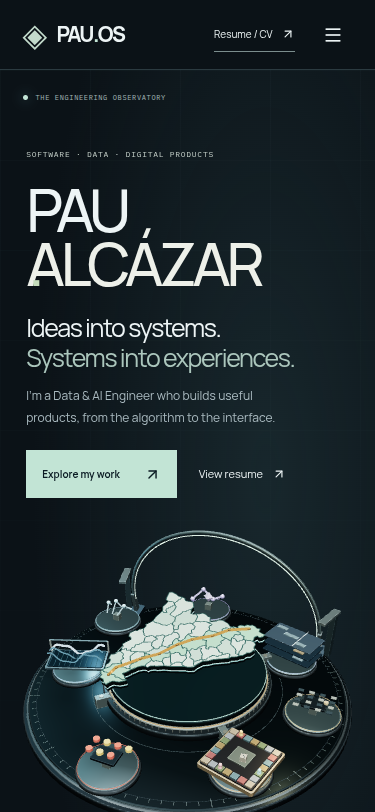
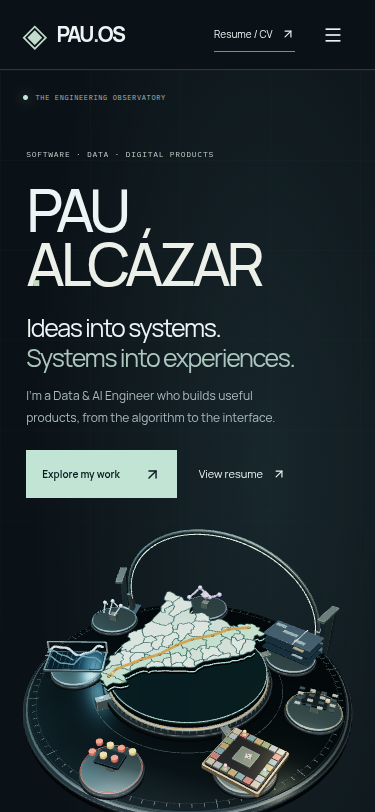
Document live drag navigation verification

Changed region(s): [[0.0587, 0.6466, 0.9387, 1.0], [0.704, 0.6773, 0.8213, 0.7389]]

diff --git a/docs/PROJECT_STATUS.md b/docs/PROJECT_STATUS.md
@@ -48,13 +48,13 @@ Read this file and ARCHITECTURE.md. `npm run dev` serves port 3100. Run the docu
 
 ## Verified deployment receipt
 
-- Native Sites status: **succeeded**, 2026-10-14T12:52:00Z.
+- Native Sites status: **succeeded**, 2026-10-14T13:16:22Z.
 - URL: https://pau-os-laboratory.poeticcrow1.chatgpt.site
 - Audience: **owner-only**, unchanged. No public sharing enabled.
-- Deployed application/source commit: `ee16914a0e8fe0eeb8a1d3145ca8f52aacf3e093`.
-- Deployment ID: `appgdep_6acf7ade574081919eb740915e46a857`; saved version 8.
[1 lines of base64/hex data omitted]
-- No shared Supabase resource was modified. The remaining local commit changes only the live verification harness, verification record and screenshots; the published application matches the feature commit above.
+- Deployed application/source commit: `a3626c0ade572f42be8c63a66cb857ad840a5c1c`.
+- Deployment ID: `appgdep_6acf8095d60c8191ae3dd04b16b3dd37`; saved version 9.
[1 lines of base64/hex data omitted]
+- No shared Supabase resource was modified. The remaining local commit changes only the live verification record and screenshots; the published application matches the feature commit above.
 
 The four new studies appear after the four primary projects; the medical repository link remains withheld pending upstream credential and data cleanup.
 

diff --git a/docs/PERFORMANCE.md b/docs/PERFORMANCE.md
@@ -18,7 +18,7 @@ A separate Chromium run used a 390×844 viewport, DPR1 and touch/mobile emulatio
 
 This measures a phone-shaped viewport and touch event model on the desktop host GPU. It does **not** predict physical iPhone or Android performance. The emulated sample also shares the limitations of a short localhost run and cannot replace testing on representative devices.
 
-The prior owner-private deployment was verified with independent desktop and mobile browser contexts. The current code is measured locally above; the follow-up production deployment still needs live performance verification. Host-GPU emulation is not a physical phone benchmark or a long-term performance guarantee. Raw evidence from the previous publication: `docs/live-verification.json`.
+Owner-private version 9 was verified with independent desktop and mobile browser contexts. Desktop High settled at three 60 FPS samples. At 375×812, mobile Medium measured **60 FPS**, 252 draw calls and 84,978 triangles; horizontal drag changed the camera, the project dock reached ESINMATH, and no page overflow occurred. The FPS sample is from a settled scene, not a sustained drag benchmark. Host-GPU emulation is not a physical phone benchmark or a long-term performance guarantee. Evidence: `docs/live-verification.json`.
 
 ## Rendering budget and controls
 
